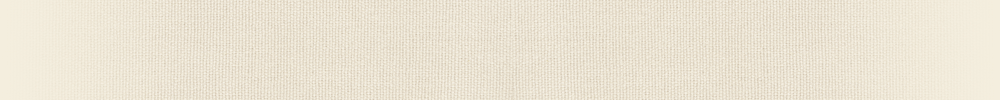
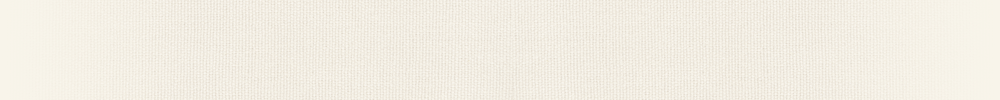
layout

diff --git a/src/stylesheets/application.sass b/src/stylesheets/application.sass
@@ -2,30 +2,13 @@
 @import "compass/reset/utilities"
 @import "compass/utilities"
 @import 'lib'
-// Oder:
 
-@include fontsrc("TitilliumText22LThin","/fonts/TitilliumText/TitilliumText22L001-webfont")
 @include fontsrc("TitilliumText22LLight","/fonts/TitilliumText/TitilliumText22L002-webfont")
-@include fontsrc("TitilliumText22LRegular","/fonts/TitilliumText/TitilliumText22L003-webfont")
-@include fontsrc("TitilliumText22LMedium","/fonts/TitilliumText/TitilliumText22L004-webfont")
-@include fontsrc("TitilliumText22LBold","/fonts/TitilliumText/TitilliumText22L005-webfont")
-@include fontsrc("TitilliumText22LXBold","/fonts/TitilliumText/TitilliumText22L006-webfont")
-
 @include fontsrc("GentiumBasicRegular",    "/fonts/GentiumBasic/GenBasR-webfont")
-@include fontsrc("GentiumBasicItalic",     "/fonts/GentiumBasic/GenBasI-webfont")
 @include fontsrc("GentiumBasicBold",       "/fonts/GentiumBasic/GenBasB-webfont")
-@include fontsrc("GentiumBasicBoldItalic", "/fonts/GentiumBasic/GenBasBI-webfont")
-
-@include fontsrc("KontrapunktBold",        "/fonts/Kontrapunkt/Kontrapunkt-Bold-webfont")
-@include fontsrc("KontrapunktLight",       "/fonts/Kontrapunkt/Kontrapunkt-Light-webfont")
-@include fontsrc("KontrapunktLightItalic", "/fonts/Kontrapunkt/Kontrapunkt-LightItalic-webfont")
-
-
-// colors
-// http://kuler.adobe.com/#themeID/1183442
 
 $main-width: 700px
-$bg-color: #F2EDDE
+$bg-color: #f8f4ea
 $medium-color: #9DBDC6
 $dark-color: #06262B
 $spot-color: #9DBDC6
@@ -51,8 +34,7 @@ body
   +font-metrics(16px, 24px)
   height: 100%
   border-top: .5em solid $brace-color
-  border-bottom: 1em solid $brace-color
-  padding-top: $nav-padding
+  padding-top: $nav-padding * 2
   background: $bg-color url(../images/cloth_bg.png) 50% 0 repeat-y
   font-family: GentiumBasicRegular
 
@@ -159,6 +141,7 @@ small a
     +link-colors($heading-color, $dark-color)
 
 #intro
+  width: 800px
   text-align: center
   font-size: 24px
   color: $heading-color
@@ -244,7 +227,7 @@ small a
 
 #footer
   +clearfix
-  background: $dark-color
+  background: $dark-color url(../images/stitch_blue.png) 0 3px repeat-x
   overflow: auto
   color: $bg-color
   padding: 20px 50px 30px 200px
@@ -268,12 +251,15 @@ small a
   #kontakt
     margin-left: 0
   h3
+    font-family: TitilliumText22LLight
     margin: 0 0 7px 0
-    padding: 0 30px 0 3px
-    border-bottom: 1px dotted $medium-color
     font-weight: normal
     color: white
 
+#seam
+  +clearfix
+  height: 7px
+  background: $dark-color url(../images/stitch_blue.png) 0 3px repeat-x
 
 .veiled
   display: inline-block

diff --git a/site/javascripts/application.js b/site/javascripts/application.js
@@ -6,7 +6,7 @@ $(document).ready(function(){
     if ($target.length) {
       console.debug(hash);
       event.preventDefault();
-      $('html, body').animate({scrollTop: ($target.offset().top + 8)}, 1200, 'easeInOutCubic');
+      $('html, body').animate({scrollTop: ($target.offset().top - 30)}, 1200, 'easeInOutCubic');
       if (window.history && window.history.pushState) {
         var new_url = /\#/.test(location.href) ? location.href.replace(/\#.+/, hash) : (location.href + hash),
             stateObj = { count : history_counter };
